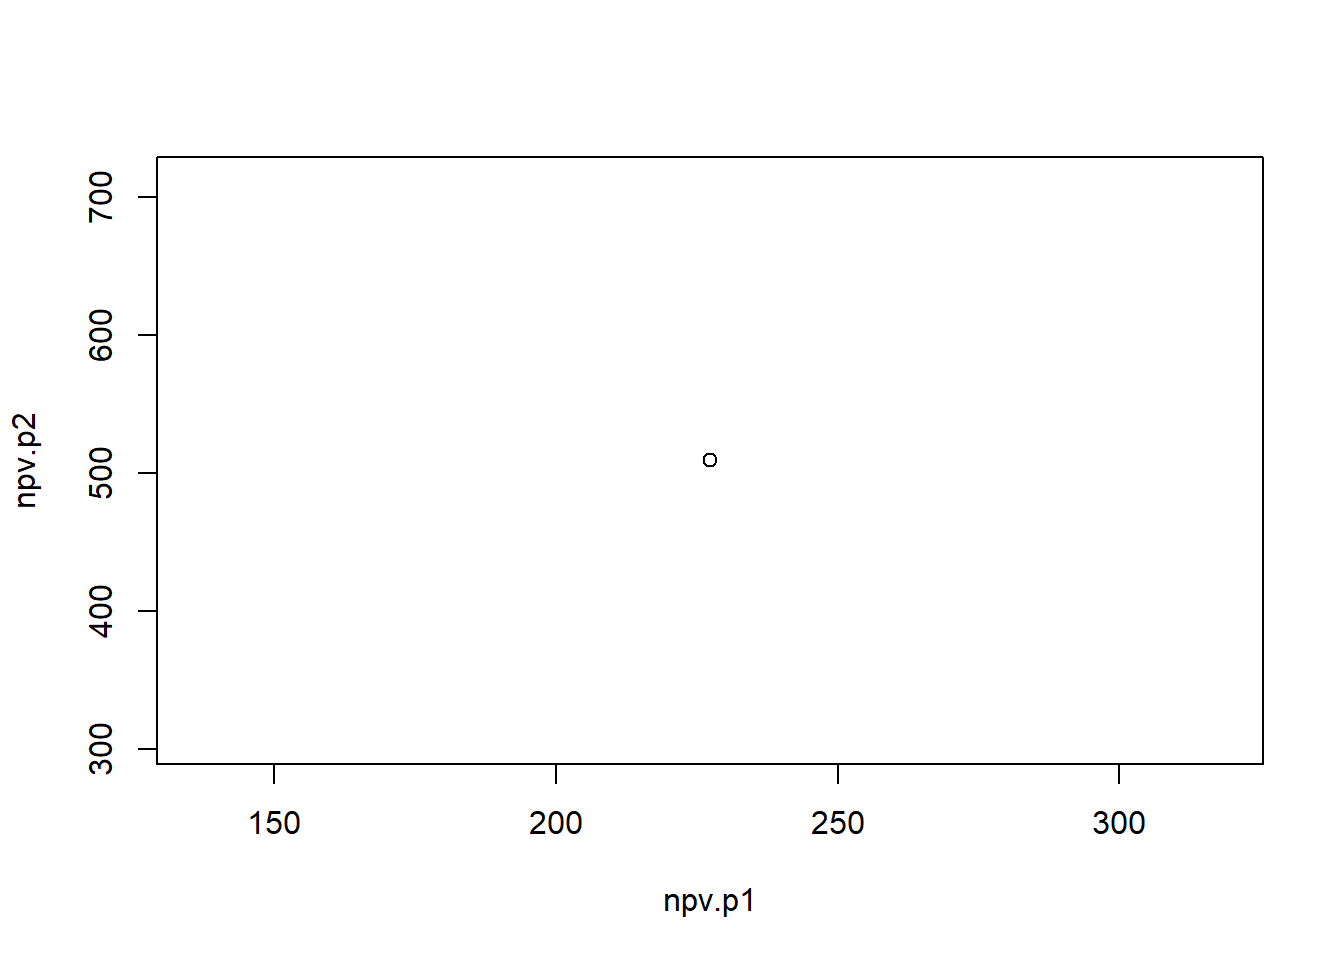
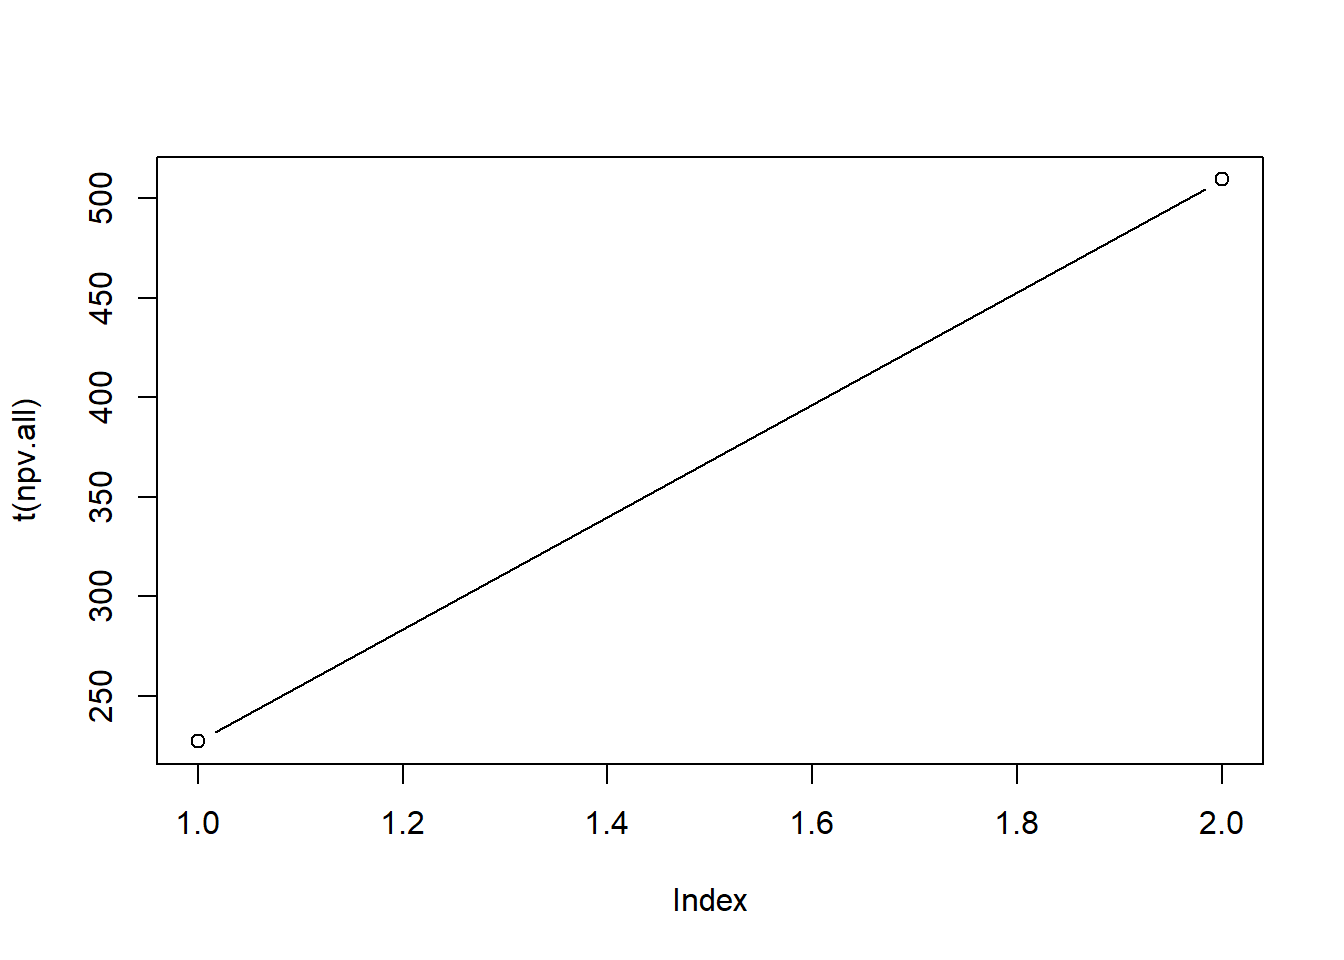
updates to EcoMan

diff --git a/EconMan.html b/EconMan.html
@@ -12,7 +12,7 @@
 
 <meta name="date" content="2019-04-20" />
 
-<title>EconMan</title>
+<title>EcoMan</title>
 
 <script src="site_libs/jquery-1.11.3/jquery.min.js"></script>
 <meta name="viewport" content="width=device-width, initial-scale=1" />
@@ -347,6 +347,9 @@ $(document).ready(function () {
 <li>
   <a href="FSA.html">Fault Seal Analysis</a>
 </li>
+<li>
+  <a href="EconMan.html">Economic Analysis</a>
+</li>
       </ul>
       <ul class="nav navbar-nav navbar-right">
         
@@ -359,7 +362,7 @@ $(document).ready(function () {
 
 
 
-<h1 class="title toc-ignore">EconMan</h1>
+<h1 class="title toc-ignore">EcoMan</h1>
 <h4 class="date">April 20, 2019</h4>
 
 </div>
@@ -563,8 +566,10 @@ knitr<span class="op">::</span><span class="kw">kable</span>(npv.all)</code></pr
 </tbody>
 </table>
 <div class="sourceCode"><pre class="sourceCode r"><code class="sourceCode r"><span class="co">#ggplot(npv.all)+geom_col(aes(x= as.factor(colnames(npv.all)), y= npv.all))</span>
-<span class="kw">plot</span>(npv.all, <span class="dt">type =</span> <span class="st">&quot;p&quot;</span>)</code></pre></div>
+npvplt&lt;-<span class="st"> </span><span class="kw">plot</span>(<span class="kw">t</span>(npv.all), <span class="dt">type =</span> <span class="st">&quot;b&quot;</span>)</code></pre></div>
 <p><img src="EconMan_files/figure-html/unnamed-chunk-3-1.png" width="672" /></p>
+<div class="sourceCode"><pre class="sourceCode r"><code class="sourceCode r">tnpv.all &lt;-<span class="st"> </span><span class="kw">as.data.frame</span>(<span class="kw">t</span>(npv.all))
+<span class="co">#ggplot(tnpv.all)+geom_col(aes(x= tnpv.all, y= tnpv.all))</span></code></pre></div>
 </div>
 <div id="calculating-the-payback-period-pbp" class="section level3">
 <h3>3. Calculating the Payback Period <em><strong>PBP</strong></em></h3>
